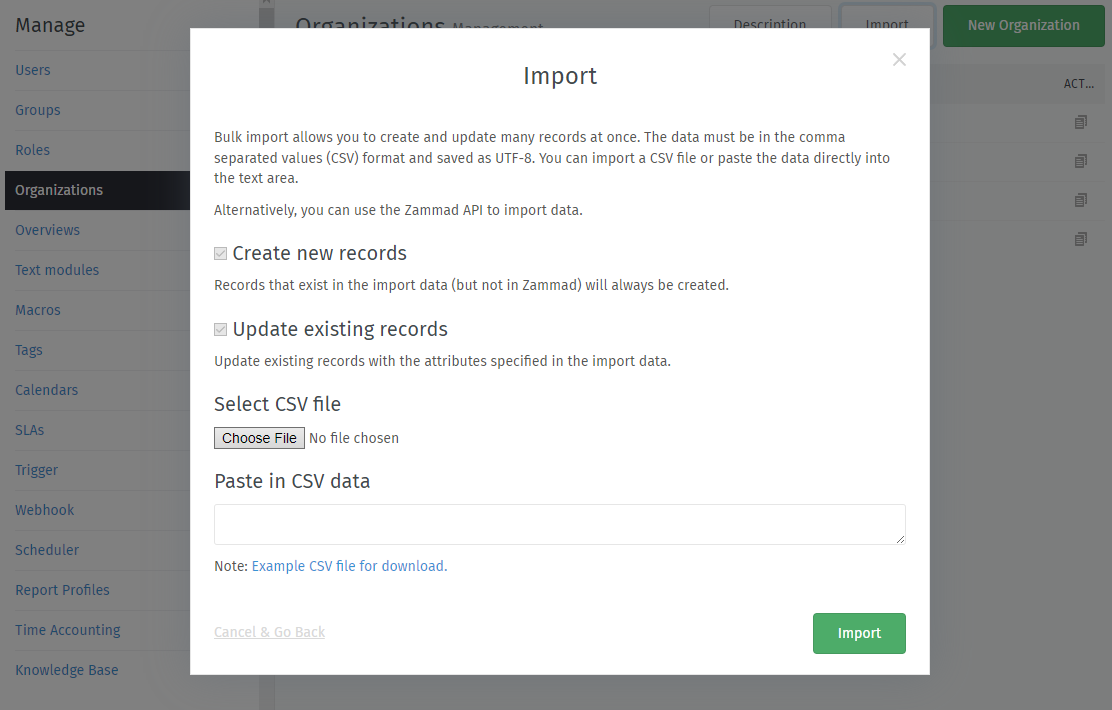
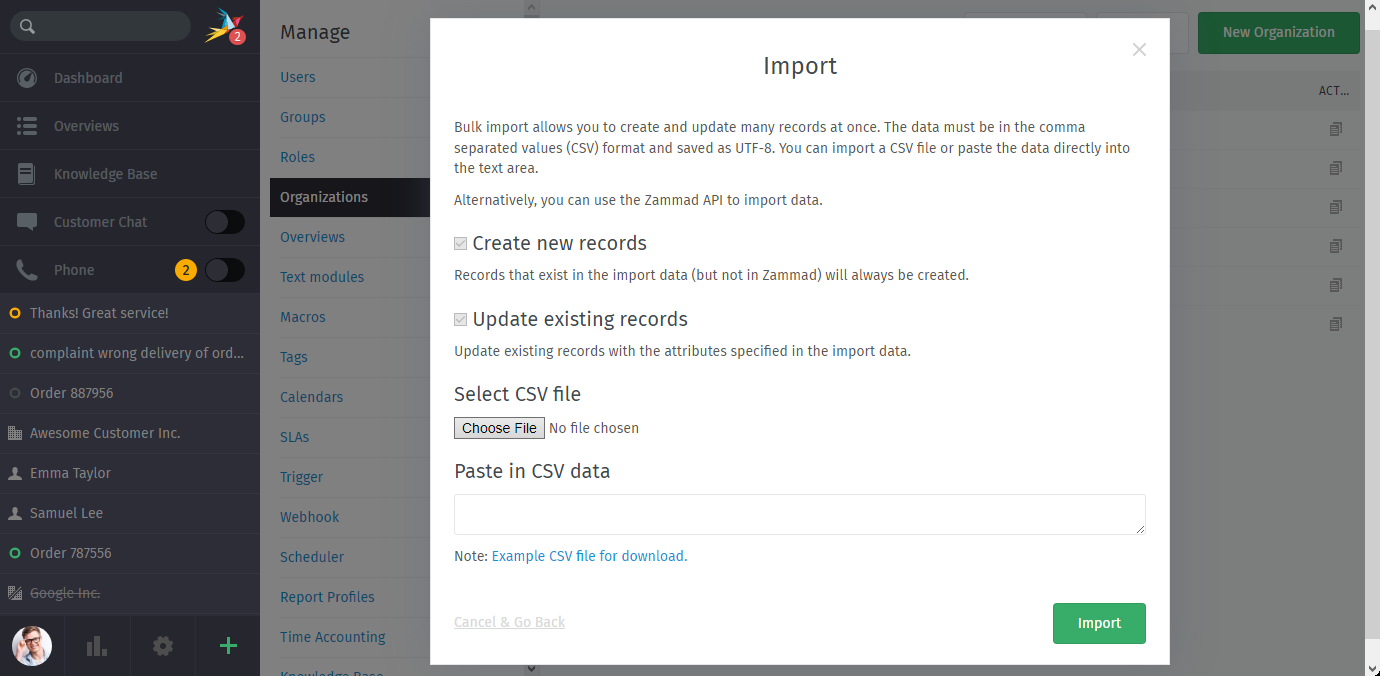
Add CSV import for organizations

diff --git a/manage/organizations/via-csv-import.rst b/manage/organizations/via-csv-import.rst
@@ -1,0 +1,70 @@
+Managing Organizations via CSV Import
+=====================================
+
+If your organization has information about customers (or personnel)
+already stored in a directory system that can export to CSV,
+you can batch-import them into Zammad in just three steps.
+
+.. figure:: /images/manage/organizations/import-or-update-organizations-via-csv.png
+   :alt: The CSV import dialog
+   :align: center
+
+   Use the **Import** button to open the CSV import dialog.
+
+Step 1: Inspect the Sample .csv
+-------------------------------
+
+Use the link at the bottom of the CSV import dialog
+(**“Example CSV file for download”**)
+to see how Zammad expects you to format your organization data.
+
+Step 2: Export Your User Data to .csv
+-------------------------------------
+
+Prepare your .csv file according to the format found in Step 1 above. Note that:
+
+* the ``id`` attribute (column) should be left blank or removed entirely;
+* the ``name`` attribute is **required**; and
+* any others may be safely omitted
+  as long as each row has the same number of fields (commas).
+
+For instance:
+
+.. code-block:: none
+
+   name,shared,domain,domain_assignment,active,members
+   Chrispresso Inc.,true,"",false,true,emma@chrispresso.com
+   "","","","","",jacob@chrispresso.com
+   "","","","","",chris@chrispresso.com
+   Awesome Customer Inc.,true,"",false,true,emily@example.com
+   "","","","","",samuel@example.com
+   "","","","","",anna@example.com
+   Zammad Foundation,true,"",false,true,nicole.braun@zammad.org
+
+.. hint::
+   
+   Several organization members can be added: Ensure to provide the users
+   email address as shown above with empty values.
+
+Step 3: Import Your .csv to Zammad
+----------------------------------
+
+Once your raw organization data has been submitted,
+Zammad will perform a test run to compute the number of affected records:
+
+.. figure:: /images/manage/organizations/import-summary-before-importing.png
+   :alt: CSV import test run and confirmation dialog
+   :align: center
+   :width: 90%
+
+   CSV import always begins with a preview / test run.
+
+.. note:: 🤔 **How does it know when to create new records and when to update?**
+
+   Records are updated when the imported data contains a ``name`` that matches
+   an existing organization entry.
+
+Click **Yes, start real import** to proceed.
+(If you’re importing a lot of records, be patient—it may take a minute.)
+
+That’s it! 🎉🎉🎉
